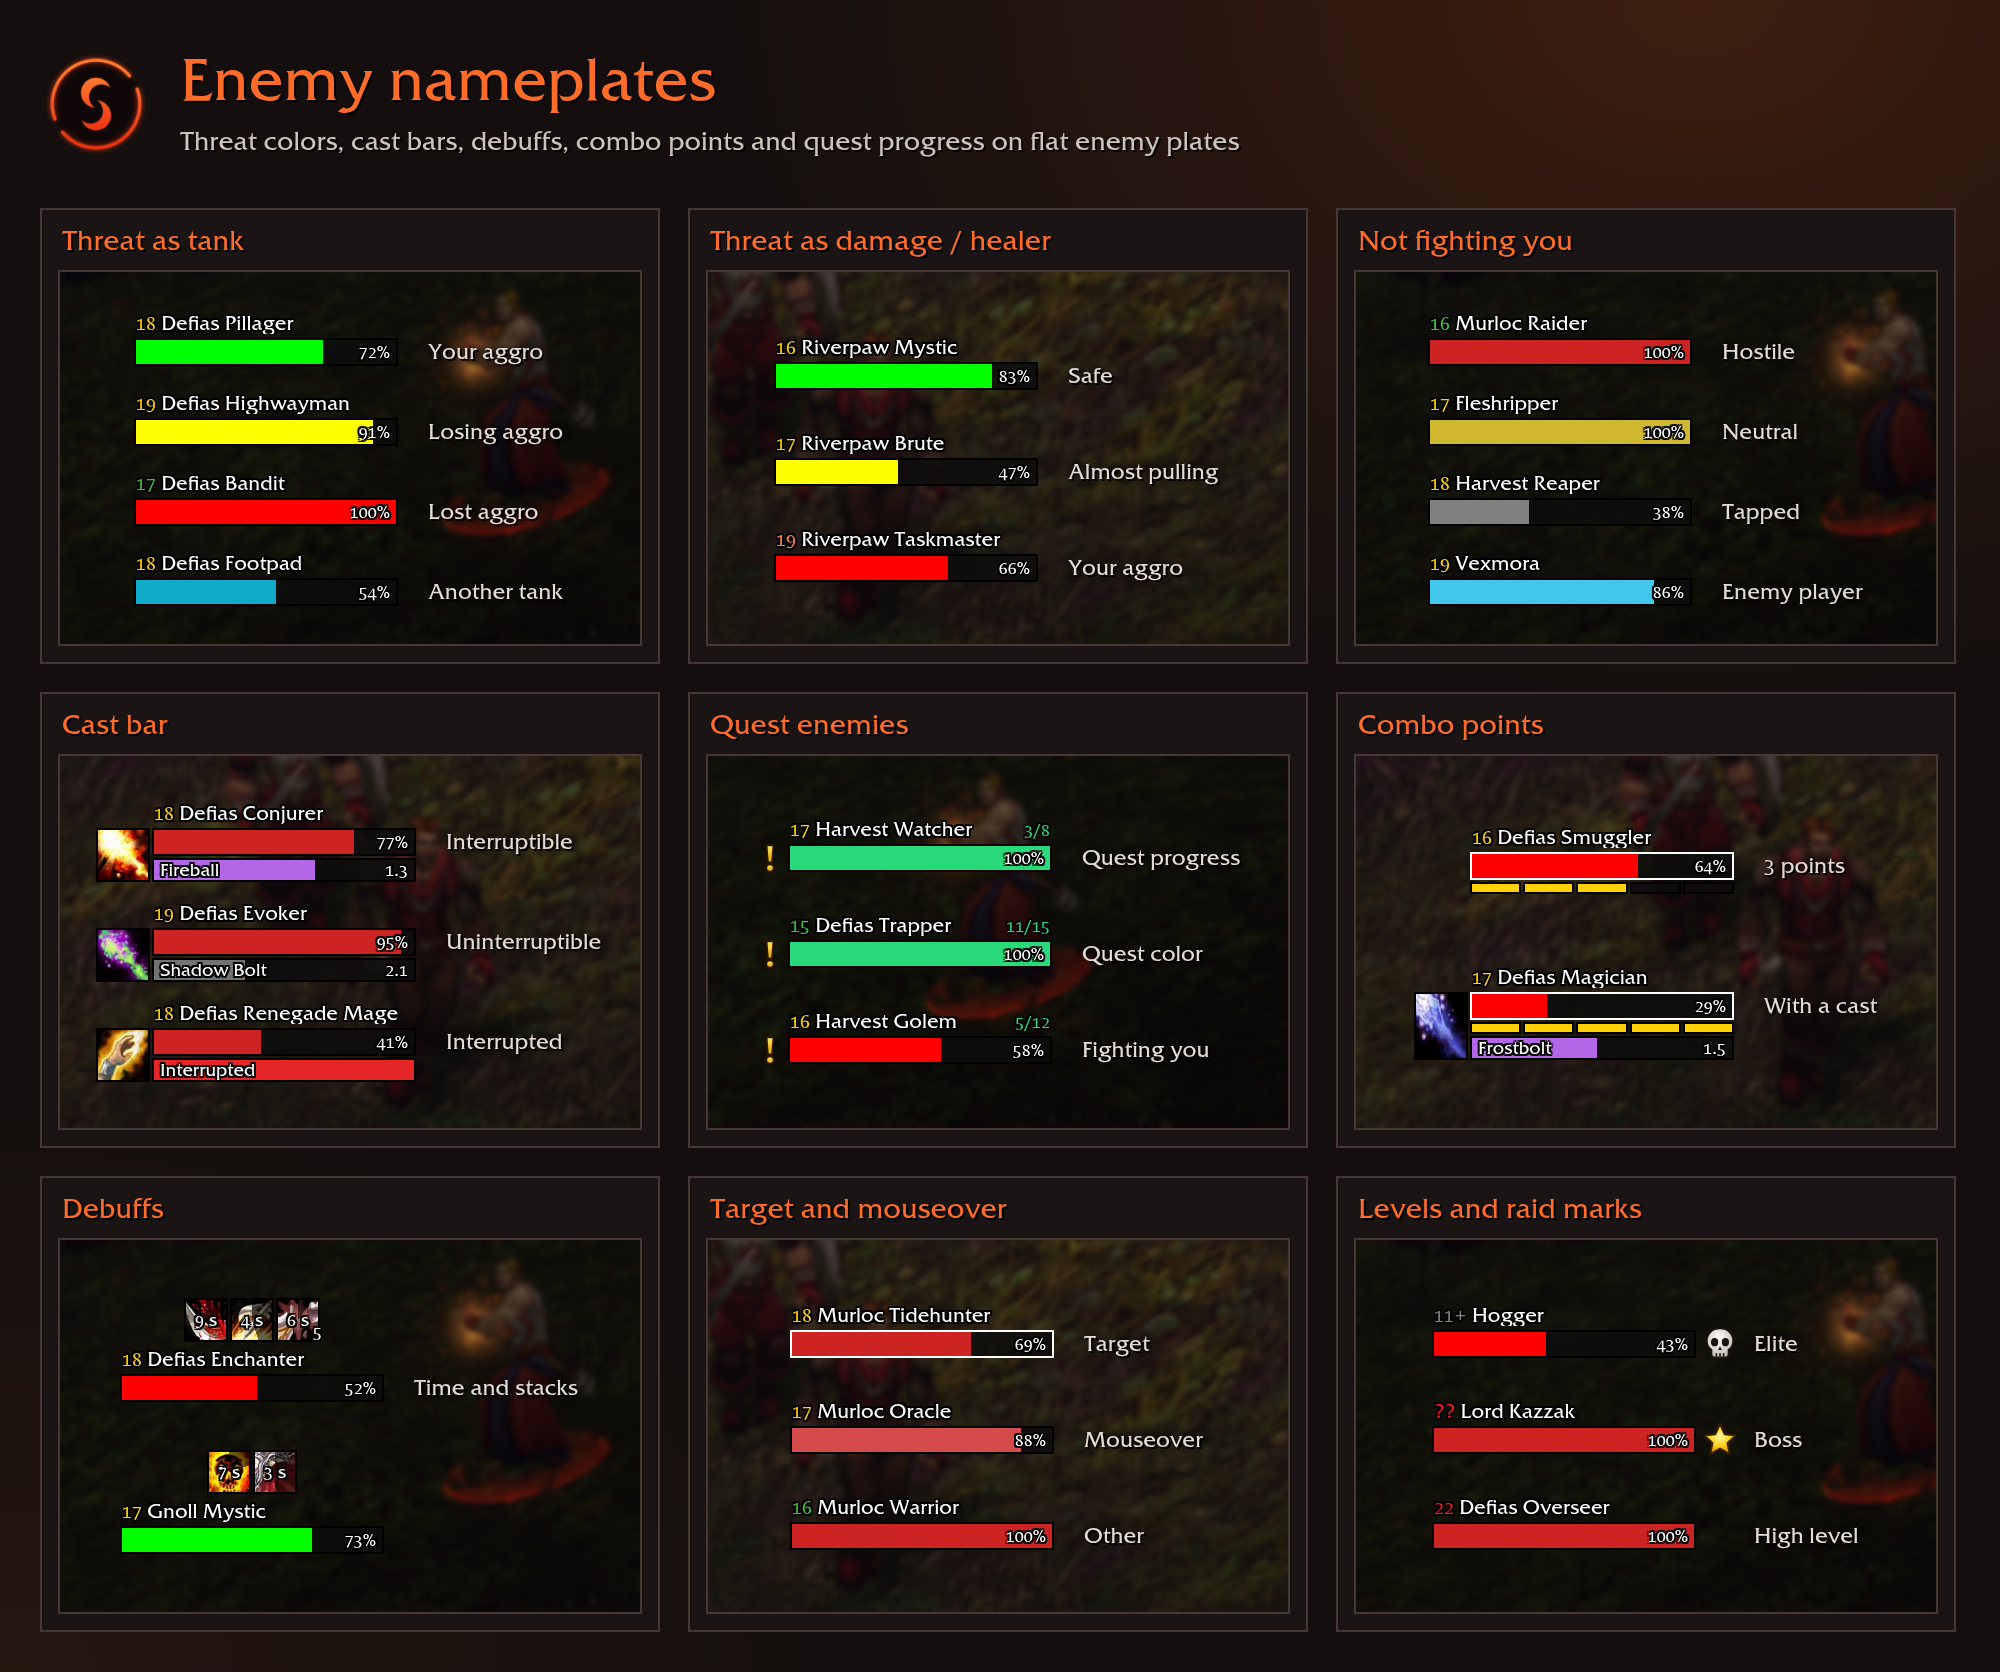
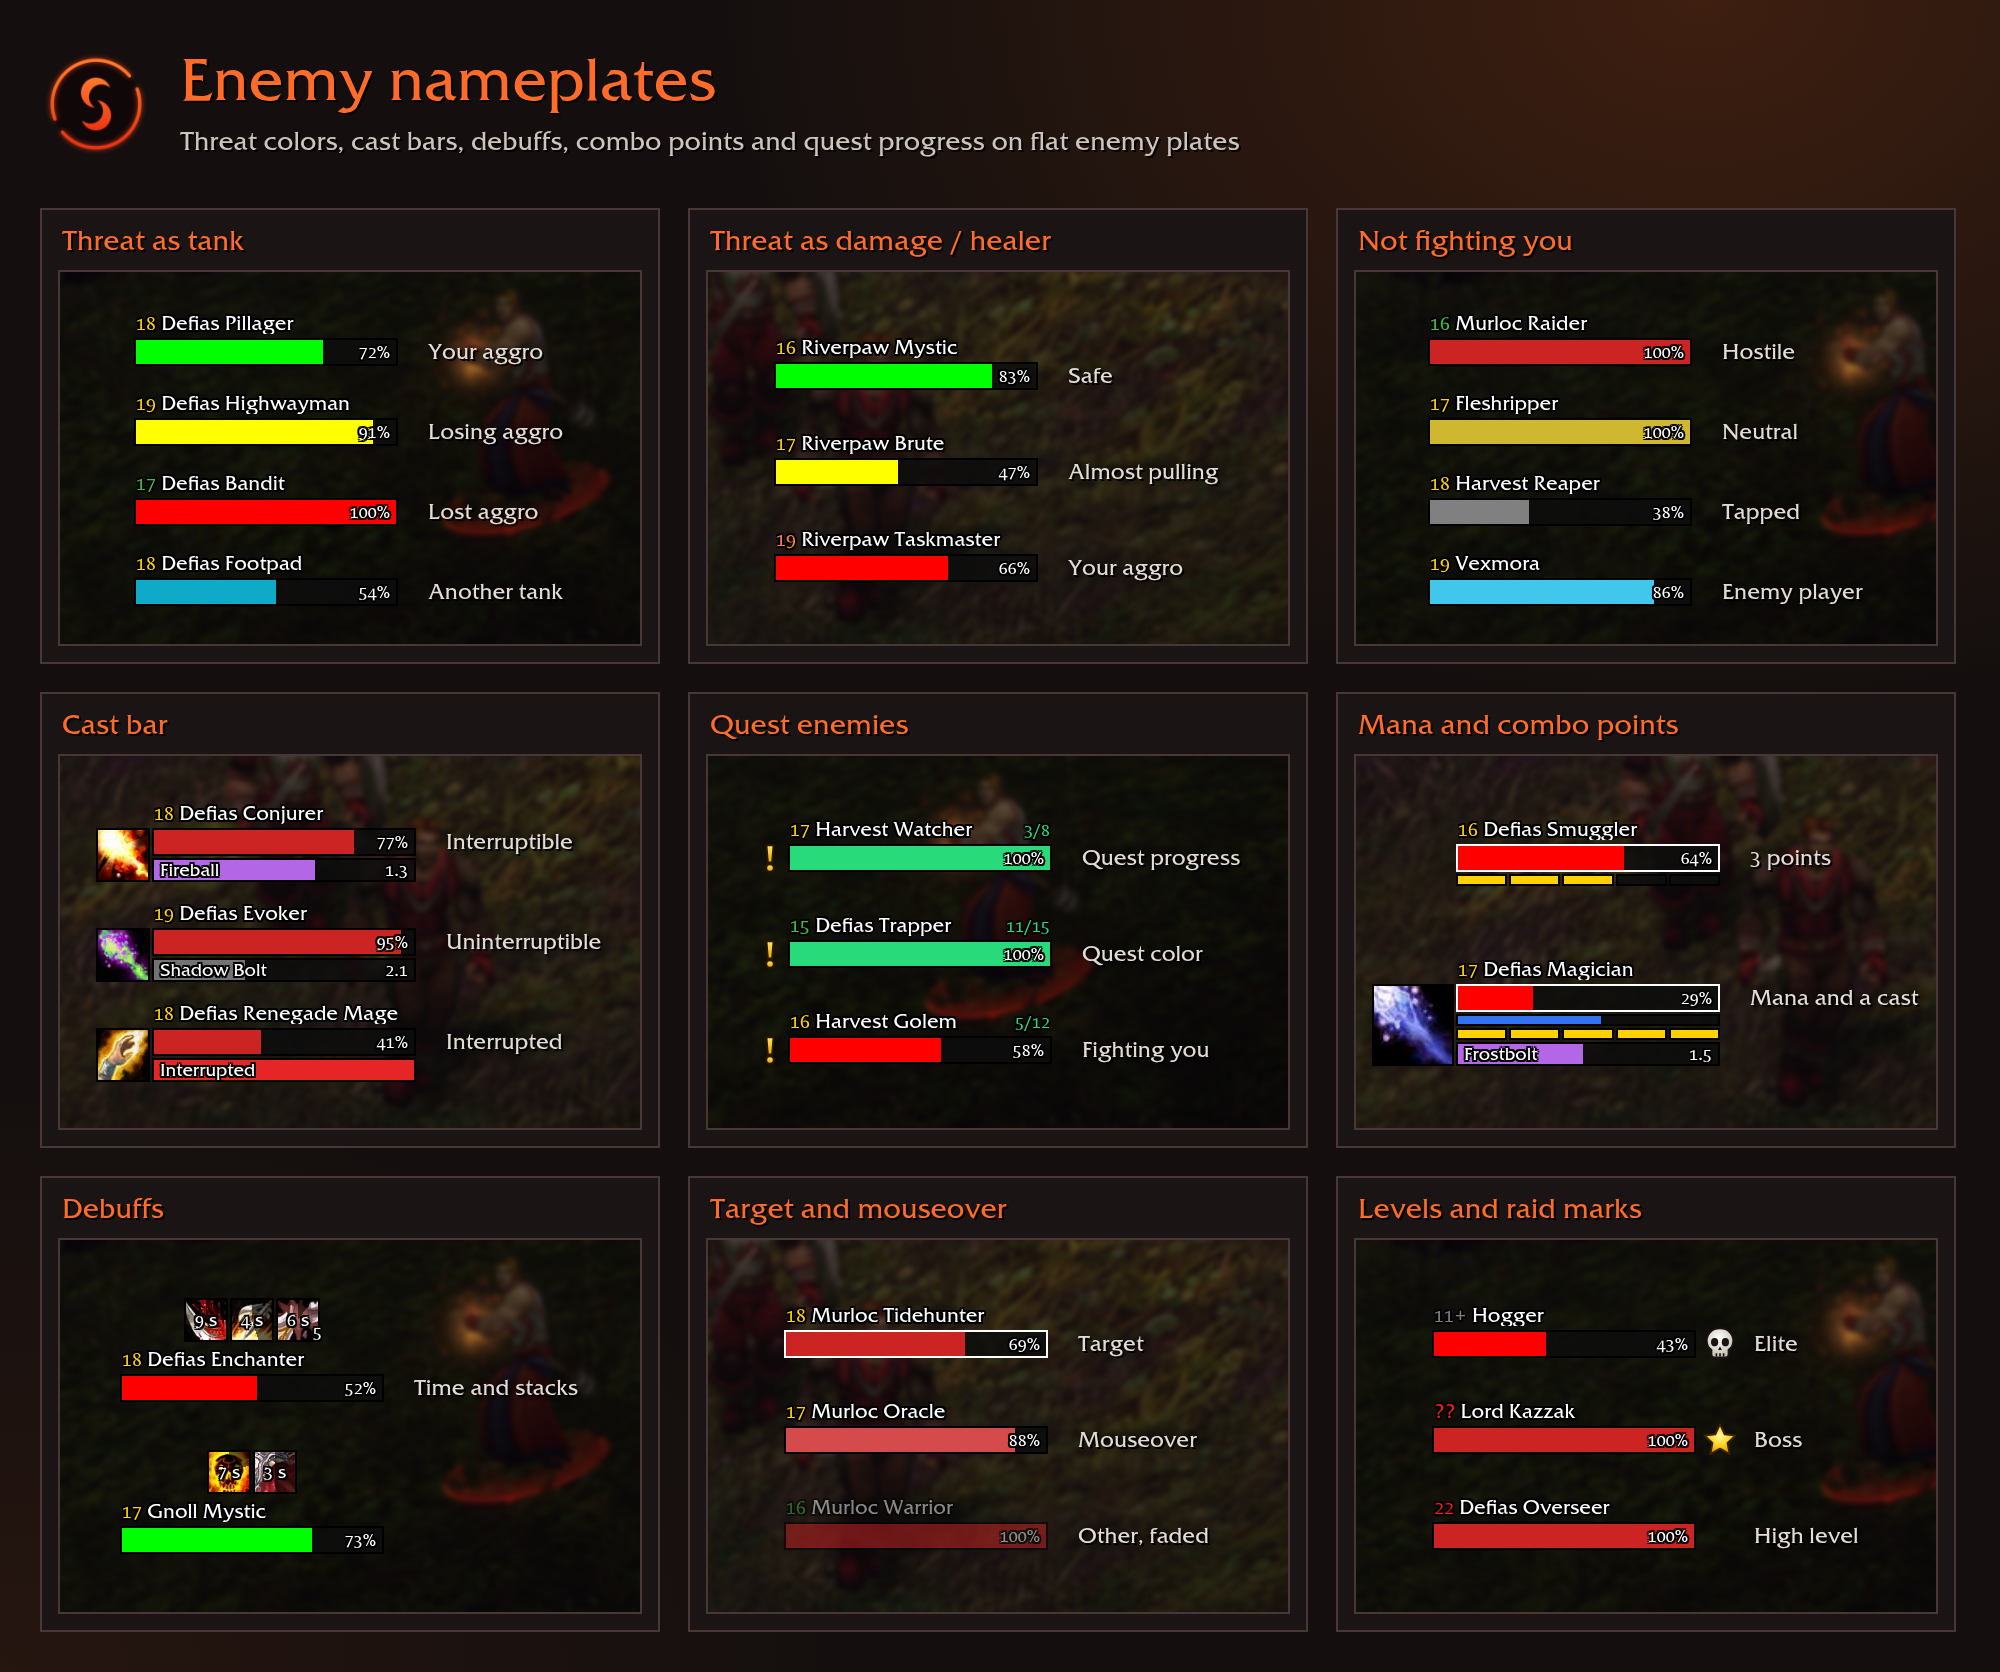
Nameplates: target's mana under its health bar
NP.StackBelow lays out the rows under the health bar (mana, combo
points, cast bar) and keeps the cast icon square. The nameplate mockup
shows mana and the faded plates.

diff --git a/tools/mockups/nameplates.html b/tools/mockups/nameplates.html
@@ -3,7 +3,8 @@
   A collage of Serene's enemy nameplates in their different states, rebuilt from
   SereneNameplates (Nameplates.lua and its modules) at the default settings:
   130 x 12, font size 10 with OUTLINE, cast bar 10 tall with a 25 wide icon,
-  combo boxes 4 tall, debuff icons 20 wide 18 above the bar.
+  mana bar and combo boxes 4 tall, debuff icons 20 wide 18 above the bar, other
+  enemies at 50% opacity while one is targeted.
   Colors are the code's defaults (COLORS, the threat settings, QUEST_COLOR, CAST_COLOR...).
   Spell icons are in icons/ (from Wowhead's CDN); the quest icon and raid marks are drawn.
   Friz Quadrata (friz.ttf, unpacked by render.sh) has old-style digits only, so the
@@ -47,7 +48,8 @@ body{width:1000px;height:836px;overflow:hidden;
 <script>
 Promise.all([document.fonts.load('10px Friz','abc'),document.fonts.load('10px Friz','123')]).then(()=>{
 const W=130, H=12, FS=10;
-const CAST_H=Math.max(6,H-2), ICON_W=H+CAST_H+3, COMBO_H=Math.max(4,Math.floor(H/3)), GAP=3;
+const CAST_H=Math.max(6,H-2), ROW_H=Math.max(4,Math.floor(H/3)), GAP=3;
+const MANA='rgb(51,115,242)';
 const DEBUFF=Math.max(14,Math.floor(W/6.5));
 const rgb=(r,g,b)=>`rgb(${r*255},${g*255},${b*255})`;
 const COLORS={hostile:rgb(.80,.137,.137), neutral:rgb(.81,.72,.19), tapped:rgb(.5,.5,.5), mage:rgb(.25,.78,.92)};
@@ -92,10 +94,11 @@ const SKULL_SVG=`<svg viewBox="0 0 20 20" width="18" height="18"><defs><radialGr
   <path d="M10 11.4l1.1 2h-2.2z" fill="#1a1410"/>
   <path d="M8 15.2v1.8M10 15.2v1.8M12 15.2v1.8" stroke="#1a1410" stroke-width=".9"/></svg>`;
 
-// One plate. o = { name, level, lc (level color key), elite, hp, color, target, hover, quest,
-//   cast:{ name, icon, fill, color, timer }, combo, debuffs:[{ icon, time, stack, used }], raid }
+// One plate. o = { name, level, lc (level color key), elite, hp, color, target, hover, faded, quest,
+//   mana, cast:{ name, icon, fill, color, timer }, combo, debuffs:[{ icon, time, stack, used }], raid }
 function plate(parent, x, y, o){
   const p=el(parent,'p',{left:px(x),top:px(y)});
+  if(o.faded) p.style.opacity=.5;
   // Health bar, its border white on the target.
   const hb=bar(p,0,0,W,H,o.hp,o.color);
   if(o.target) hb.style.outlineColor='#fff';
@@ -111,20 +114,24 @@ function plate(parent, x, y, o){
   el(p,'f o abs',{left:0,right:px(right),top:px(-3-FS),fontSize:px(FS),color:'#fff',overflow:'hidden',textOverflow:'ellipsis'},lvl+o.name);
   el(p,'f o abs',{right:'3px',top:px((H-(FS-1))/2+.5),fontSize:px(FS-1),color:'#fff'},Math.round(o.hp*100)+'%');
   if(o.raid) el(p,'abs',{left:px(W+4),top:px((H-18)/2),width:'18px',height:'18px'},o.raid==='skull'?SKULL_SVG:STAR_SVG);
-  // Combo points: five boxes under the bar; the cast bar goes under them.
+  // Rows under the bar: mana, then combo points; the cast bar goes under the last.
   let below=H;
+  if(o.mana!==undefined){
+    bar(p,0,below+3,W,ROW_H,o.mana,MANA);
+    below+=3+ROW_H;
+  }
   if(o.combo!==undefined){
     const bw=(W-GAP*4)/5;
-    for(let i=0;i<5;i++) el(p,'abs',{left:px(i*(bw+GAP)),top:px(H+3),width:px(bw),height:px(COMBO_H),
+    for(let i=0;i<5;i++) el(p,'abs',{left:px(i*(bw+GAP)),top:px(below+3),width:px(bw),height:px(ROW_H),
       outline:'1px solid #000',background:i<o.combo?'rgb(255,209,0)':'rgba(13,13,13,.85)'});
-    below=H+3+COMBO_H;
+    below+=3+ROW_H;
   }
   if(o.cast){
     const c=o.cast, cy=below+3;
     bar(p,0,cy,W,CAST_H,c.fill,c.color);
     el(p,'f o abs',{left:'3px',top:px(cy+(CAST_H-(FS-1))/2+.5),fontSize:px(FS-1),color:'#fff'},c.name);
     if(c.timer) el(p,'f o abs',{right:'3px',top:px(cy+(CAST_H-(FS-1))/2+.5),fontSize:px(FS-1),color:'#fff'},c.timer);
-    spell(p,-3-ICON_W,0,ICON_W,cy+CAST_H,c.icon);
+    spell(p,-3-(cy+CAST_H),0,cy+CAST_H,cy+CAST_H,c.icon);  // square, health top to cast bottom
   }
   // Debuffs: a centered row 18 above the bar; reverse swipe over the time gone, time in the middle, stacks bottom right.
   if(o.debuffs){
@@ -201,9 +208,9 @@ rows(panel('Quest enemies'),[
   {name:'Harvest Golem',level:16,hp:.58,color:hex('ff0000'),quest:'5/12',label:'Fighting you'},
 ],48);
 
-rows(panel('Combo points'),[
+rows(panel('Mana and combo points'),[
   {name:'Defias Smuggler',level:16,hp:.64,color:hex('ff0000'),target:true,combo:3,label:'3 points'},
-  {name:'Defias Magician',level:17,hp:.29,color:hex('ff0000'),target:true,combo:5,label:'With a cast',
+  {name:'Defias Magician',level:17,hp:.29,color:hex('ff0000'),target:true,mana:.55,combo:5,label:'Mana and a cast',
    cast:{name:'Frostbolt',icon:'spell_frost_frostbolt02',fill:.48,color:CAST,timer:'1.5'}},
 ],70);
 
@@ -218,7 +225,7 @@ rows(panel('Debuffs'),[
 rows(panel('Target and mouseover'),[
   {name:'Murloc Tidehunter',level:18,hp:.69,color:COLORS.hostile,target:true,label:'Target'},
   {name:'Murloc Oracle',level:17,hp:.88,color:COLORS.hostile,hover:true,label:'Mouseover'},
-  {name:'Murloc Warrior',level:16,lc:'green',hp:1,color:COLORS.hostile,label:'Other'},
+  {name:'Murloc Warrior',level:16,lc:'green',hp:1,color:COLORS.hostile,faded:true,label:'Other, faded'},
 ],48);
 
 rows(panel('Levels and raid marks'),[
